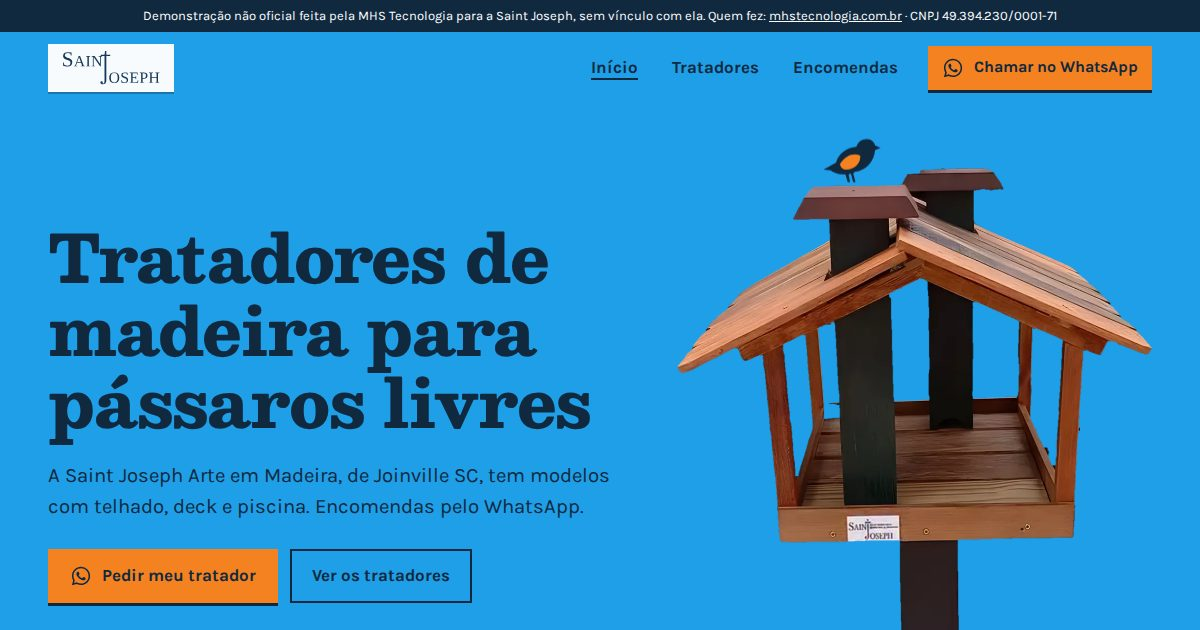
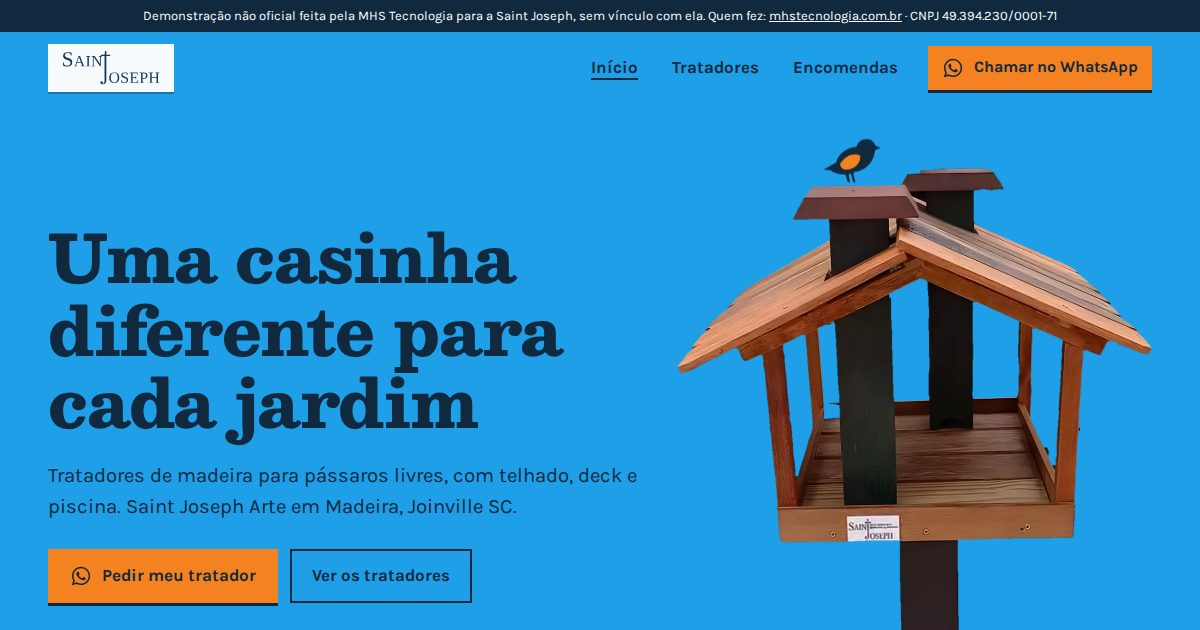
Previews: 56 ativos

Changed region(s): [[0.0308, 0.4825, 0.5242, 0.8143], [0.0308, 0.3619, 0.4625, 0.4524]]

diff --git a/saint-joseph-arte-madeira-joinville-sc/tratadores.html b/saint-joseph-arte-madeira-joinville-sc/tratadores.html
@@ -32,14 +32,14 @@
 </section>
 <section class="miolo">
   <div class="vitrine">
-      <figure class="modelo"><img src="img/t04-800.webp" srcset="img/t04-480.webp 480w, img/t04-800.webp 800w, img/t04-1080.webp 1080w" sizes="(max-width:860px) 46vw, 31vw" width="1080" height="1120" alt="Tratador de madeira com deck de ripas e piscina azul" loading="lazy" decoding="async"><figcaption><h2>Tratador 4 colunas com deck e piscina</h2><p>Com sementes na bandeja e piscina azul no deck.</p><a class="btn btn-pede btn-peq" href="https://wa.me/5547933821675?text=Ol%C3%A1!%20Quero%20saber%20sobre%20este%20modelo%3A%20Tratador%204%20colunas%20com%20deck%20e%20piscina.%20Com%20sementes%20na%20bandeja%20e%20piscina%20azul%20no%20deck."><svg viewBox="0 0 24 24" aria-hidden="true" fill="currentColor"><path d="M12.04 2C6.58 2 2.13 6.45 2.13 11.91c0 1.75.46 3.45 1.32 4.95L2.05 22l5.25-1.38a9.9 9.9 0 0 0 4.74 1.21h.01c5.46 0 9.91-4.45 9.91-9.91 0-2.65-1.03-5.14-2.9-7.01A9.82 9.82 0 0 0 12.04 2Zm0 18.15h-.01a8.2 8.2 0 0 1-4.19-1.15l-.3-.18-3.12.82.83-3.04-.2-.31a8.2 8.2 0 0 1-1.26-4.38c0-4.54 3.7-8.24 8.25-8.24 2.2 0 4.27.86 5.83 2.42a8.18 8.18 0 0 1 2.41 5.83c0 4.54-3.7 8.23-8.24 8.23Zm4.52-6.17c-.25-.12-1.47-.72-1.69-.81-.23-.08-.39-.12-.56.13-.16.24-.64.8-.78.97-.15.16-.29.18-.54.06-.25-.13-1.05-.39-2-1.23-.74-.66-1.24-1.47-1.38-1.72-.15-.25-.02-.38.11-.5.11-.11.25-.29.37-.43.12-.15.16-.25.25-.41.08-.17.04-.31-.02-.43-.06-.13-.56-1.35-.77-1.85-.2-.48-.41-.42-.56-.42h-.48c-.17 0-.43.06-.66.31-.23.25-.86.85-.86 2.07 0 1.22.89 2.4 1.01 2.56.13.17 1.75 2.67 4.23 3.74.59.26 1.05.41 1.41.52.59.19 1.13.16 1.56.1.47-.07 1.47-.6 1.67-1.18.21-.58.21-1.07.15-1.18-.06-.1-.23-.16-.48-.29Z"/></svg>Perguntar</a></figcaption></figure>
-      <figure class="modelo"><img src="img/t06-800.webp" srcset="img/t06-480.webp 480w, img/t06-800.webp 800w, img/t06-920.webp 920w" sizes="(max-width:860px) 46vw, 31vw" width="920" height="904" alt="Tratador de madeira com telhado verde, janela de moldura verde e piscina azul" loading="lazy" decoding="async"><figcaption><h2>Casinha Verde com piscina</h2><p>Telhado verde e moldura verde na janela.</p><a class="btn btn-pede btn-peq" href="https://wa.me/5547933821675?text=Ol%C3%A1!%20Quero%20saber%20sobre%20este%20modelo%3A%20Casinha%20Verde%20com%20piscina.%20Telhado%20verde%20e%20moldura%20verde%20na%20janela."><svg viewBox="0 0 24 24" aria-hidden="true" fill="currentColor"><path d="M12.04 2C6.58 2 2.13 6.45 2.13 11.91c0 1.75.46 3.45 1.32 4.95L2.05 22l5.25-1.38a9.9 9.9 0 0 0 4.74 1.21h.01c5.46 0 9.91-4.45 9.91-9.91 0-2.65-1.03-5.14-2.9-7.01A9.82 9.82 0 0 0 12.04 2Zm0 18.15h-.01a8.2 8.2 0 0 1-4.19-1.15l-.3-.18-3.12.82.83-3.04-.2-.31a8.2 8.2 0 0 1-1.26-4.38c0-4.54 3.7-8.24 8.25-8.24 2.2 0 4.27.86 5.83 2.42a8.18 8.18 0 0 1 2.41 5.83c0 4.54-3.7 8.23-8.24 8.23Zm4.52-6.17c-.25-.12-1.47-.72-1.69-.81-.23-.08-.39-.12-.56.13-.16.24-.64.8-.78.97-.15.16-.29.18-.54.06-.25-.13-1.05-.39-2-1.23-.74-.66-1.24-1.47-1.38-1.72-.15-.25-.02-.38.11-.5.11-.11.25-.29.37-.43.12-.15.16-.25.25-.41.08-.17.04-.31-.02-.43-.06-.13-.56-1.35-.77-1.85-.2-.48-.41-.42-.56-.42h-.48c-.17 0-.43.06-.66.31-.23.25-.86.85-.86 2.07 0 1.22.89 2.4 1.01 2.56.13.17 1.75 2.67 4.23 3.74.59.26 1.05.41 1.41.52.59.19 1.13.16 1.56.1.47-.07 1.47-.6 1.67-1.18.21-.58.21-1.07.15-1.18-.06-.1-.23-.16-.48-.29Z"/></svg>Perguntar</a></figcaption></figure>
-      <figure class="modelo"><img src="img/t08-800.webp" srcset="img/t08-480.webp 480w, img/t08-800.webp 800w, img/t08-1200.webp 1200w, img/t08-1280.webp 1280w" sizes="(max-width:860px) 46vw, 31vw" width="1280" height="2272" alt="Tratador laranja e verde em um poste preto" loading="lazy" decoding="async"><figcaption><h2>Tratador para pássaros</h2><p>Laranja e verde, no poste preto.</p><a class="btn btn-pede btn-peq" href="https://wa.me/5547933821675?text=Ol%C3%A1!%20Quero%20saber%20sobre%20este%20modelo%3A%20Tratador%20para%20p%C3%A1ssaros.%20Laranja%20e%20verde%2C%20no%20poste%20preto."><svg viewBox="0 0 24 24" aria-hidden="true" fill="currentColor"><path d="M12.04 2C6.58 2 2.13 6.45 2.13 11.91c0 1.75.46 3.45 1.32 4.95L2.05 22l5.25-1.38a9.9 9.9 0 0 0 4.74 1.21h.01c5.46 0 9.91-4.45 9.91-9.91 0-2.65-1.03-5.14-2.9-7.01A9.82 9.82 0 0 0 12.04 2Zm0 18.15h-.01a8.2 8.2 0 0 1-4.19-1.15l-.3-.18-3.12.82.83-3.04-.2-.31a8.2 8.2 0 0 1-1.26-4.38c0-4.54 3.7-8.24 8.25-8.24 2.2 0 4.27.86 5.83 2.42a8.18 8.18 0 0 1 2.41 5.83c0 4.54-3.7 8.23-8.24 8.23Zm4.52-6.17c-.25-.12-1.47-.72-1.69-.81-.23-.08-.39-.12-.56.13-.16.24-.64.8-.78.97-.15.16-.29.18-.54.06-.25-.13-1.05-.39-2-1.23-.74-.66-1.24-1.47-1.38-1.72-.15-.25-.02-.38.11-.5.11-.11.25-.29.37-.43.12-.15.16-.25.25-.41.08-.17.04-.31-.02-.43-.06-.13-.56-1.35-.77-1.85-.2-.48-.41-.42-.56-.42h-.48c-.17 0-.43.06-.66.31-.23.25-.86.85-.86 2.07 0 1.22.89 2.4 1.01 2.56.13.17 1.75 2.67 4.23 3.74.59.26 1.05.41 1.41.52.59.19 1.13.16 1.56.1.47-.07 1.47-.6 1.67-1.18.21-.58.21-1.07.15-1.18-.06-.1-.23-.16-.48-.29Z"/></svg>Perguntar</a></figcaption></figure>
-      <figure class="modelo"><img src="img/t03-800.webp" srcset="img/t03-480.webp 480w, img/t03-800.webp 800w, img/t03-1200.webp 1200w, img/t03-1280.webp 1280w" sizes="(max-width:860px) 46vw, 31vw" width="1280" height="904" alt="Tratador de madeira preso em uma parede branca por um suporte de madeira, com piscina azul" loading="lazy" decoding="async"><figcaption><h2>Suporte para tratador de pássaros</h2><p>Preso na parede, com mão-francesa de madeira.</p><a class="btn btn-pede btn-peq" href="https://wa.me/5547933821675?text=Ol%C3%A1!%20Quero%20saber%20sobre%20este%20modelo%3A%20Suporte%20para%20tratador%20de%20p%C3%A1ssaros.%20Preso%20na%20parede%2C%20com%20m%C3%A3o-francesa%20de%20madeira."><svg viewBox="0 0 24 24" aria-hidden="true" fill="currentColor"><path d="M12.04 2C6.58 2 2.13 6.45 2.13 11.91c0 1.75.46 3.45 1.32 4.95L2.05 22l5.25-1.38a9.9 9.9 0 0 0 4.74 1.21h.01c5.46 0 9.91-4.45 9.91-9.91 0-2.65-1.03-5.14-2.9-7.01A9.82 9.82 0 0 0 12.04 2Zm0 18.15h-.01a8.2 8.2 0 0 1-4.19-1.15l-.3-.18-3.12.82.83-3.04-.2-.31a8.2 8.2 0 0 1-1.26-4.38c0-4.54 3.7-8.24 8.25-8.24 2.2 0 4.27.86 5.83 2.42a8.18 8.18 0 0 1 2.41 5.83c0 4.54-3.7 8.23-8.24 8.23Zm4.52-6.17c-.25-.12-1.47-.72-1.69-.81-.23-.08-.39-.12-.56.13-.16.24-.64.8-.78.97-.15.16-.29.18-.54.06-.25-.13-1.05-.39-2-1.23-.74-.66-1.24-1.47-1.38-1.72-.15-.25-.02-.38.11-.5.11-.11.25-.29.37-.43.12-.15.16-.25.25-.41.08-.17.04-.31-.02-.43-.06-.13-.56-1.35-.77-1.85-.2-.48-.41-.42-.56-.42h-.48c-.17 0-.43.06-.66.31-.23.25-.86.85-.86 2.07 0 1.22.89 2.4 1.01 2.56.13.17 1.75 2.67 4.23 3.74.59.26 1.05.41 1.41.52.59.19 1.13.16 1.56.1.47-.07 1.47-.6 1.67-1.18.21-.58.21-1.07.15-1.18-.06-.1-.23-.16-.48-.29Z"/></svg>Perguntar</a></figcaption></figure>
-      <figure class="modelo"><img src="img/t05-800.webp" srcset="img/t05-480.webp 480w, img/t05-800.webp 800w, img/t05-1200.webp 1200w, img/t05-1280.webp 1280w" sizes="(max-width:860px) 46vw, 31vw" width="1280" height="1136" alt="Tratador de madeira com piscina azul sobre um tronco" loading="lazy" decoding="async"><figcaption><h2>Tratador de pássaros com piscina</h2><p>Com up grade, sobre tronco.</p><a class="btn btn-pede btn-peq" href="https://wa.me/5547933821675?text=Ol%C3%A1!%20Quero%20saber%20sobre%20este%20modelo%3A%20Tratador%20de%20p%C3%A1ssaros%20com%20piscina.%20Com%20up%20grade%2C%20sobre%20tronco."><svg viewBox="0 0 24 24" aria-hidden="true" fill="currentColor"><path d="M12.04 2C6.58 2 2.13 6.45 2.13 11.91c0 1.75.46 3.45 1.32 4.95L2.05 22l5.25-1.38a9.9 9.9 0 0 0 4.74 1.21h.01c5.46 0 9.91-4.45 9.91-9.91 0-2.65-1.03-5.14-2.9-7.01A9.82 9.82 0 0 0 12.04 2Zm0 18.15h-.01a8.2 8.2 0 0 1-4.19-1.15l-.3-.18-3.12.82.83-3.04-.2-.31a8.2 8.2 0 0 1-1.26-4.38c0-4.54 3.7-8.24 8.25-8.24 2.2 0 4.27.86 5.83 2.42a8.18 8.18 0 0 1 2.41 5.83c0 4.54-3.7 8.23-8.24 8.23Zm4.52-6.17c-.25-.12-1.47-.72-1.69-.81-.23-.08-.39-.12-.56.13-.16.24-.64.8-.78.97-.15.16-.29.18-.54.06-.25-.13-1.05-.39-2-1.23-.74-.66-1.24-1.47-1.38-1.72-.15-.25-.02-.38.11-.5.11-.11.25-.29.37-.43.12-.15.16-.25.25-.41.08-.17.04-.31-.02-.43-.06-.13-.56-1.35-.77-1.85-.2-.48-.41-.42-.56-.42h-.48c-.17 0-.43.06-.66.31-.23.25-.86.85-.86 2.07 0 1.22.89 2.4 1.01 2.56.13.17 1.75 2.67 4.23 3.74.59.26 1.05.41 1.41.52.59.19 1.13.16 1.56.1.47-.07 1.47-.6 1.67-1.18.21-.58.21-1.07.15-1.18-.06-.1-.23-.16-.48-.29Z"/></svg>Perguntar</a></figcaption></figure>
-      <figure class="modelo"><img src="img/t10-800.webp" srcset="img/t10-480.webp 480w, img/t10-800.webp 800w, img/t10-1200.webp 1200w, img/t10-1280.webp 1280w" sizes="(max-width:860px) 46vw, 31vw" width="1280" height="1808" alt="Tratador de madeira com duas colunas verdes em um poste preto" loading="lazy" decoding="async"><figcaption><h2>Tratador de pássaros</h2><p>Duas colunas verdes no centro.</p><a class="btn btn-pede btn-peq" href="https://wa.me/5547933821675?text=Ol%C3%A1!%20Quero%20saber%20sobre%20este%20modelo%3A%20Tratador%20de%20p%C3%A1ssaros.%20Duas%20colunas%20verdes%20no%20centro."><svg viewBox="0 0 24 24" aria-hidden="true" fill="currentColor"><path d="M12.04 2C6.58 2 2.13 6.45 2.13 11.91c0 1.75.46 3.45 1.32 4.95L2.05 22l5.25-1.38a9.9 9.9 0 0 0 4.74 1.21h.01c5.46 0 9.91-4.45 9.91-9.91 0-2.65-1.03-5.14-2.9-7.01A9.82 9.82 0 0 0 12.04 2Zm0 18.15h-.01a8.2 8.2 0 0 1-4.19-1.15l-.3-.18-3.12.82.83-3.04-.2-.31a8.2 8.2 0 0 1-1.26-4.38c0-4.54 3.7-8.24 8.25-8.24 2.2 0 4.27.86 5.83 2.42a8.18 8.18 0 0 1 2.41 5.83c0 4.54-3.7 8.23-8.24 8.23Zm4.52-6.17c-.25-.12-1.47-.72-1.69-.81-.23-.08-.39-.12-.56.13-.16.24-.64.8-.78.97-.15.16-.29.18-.54.06-.25-.13-1.05-.39-2-1.23-.74-.66-1.24-1.47-1.38-1.72-.15-.25-.02-.38.11-.5.11-.11.25-.29.37-.43.12-.15.16-.25.25-.41.08-.17.04-.31-.02-.43-.06-.13-.56-1.35-.77-1.85-.2-.48-.41-.42-.56-.42h-.48c-.17 0-.43.06-.66.31-.23.25-.86.85-.86 2.07 0 1.22.89 2.4 1.01 2.56.13.17 1.75 2.67 4.23 3.74.59.26 1.05.41 1.41.52.59.19 1.13.16 1.56.1.47-.07 1.47-.6 1.67-1.18.21-.58.21-1.07.15-1.18-.06-.1-.23-.16-.48-.29Z"/></svg>Perguntar</a></figcaption></figure>
-      <figure class="modelo"><img src="img/cena-800.webp" srcset="img/cena-480.webp 480w, img/cena-800.webp 800w, img/cena-1200.webp 1200w, img/cena-1280.webp 1280w" sizes="(max-width:860px) 46vw, 31vw" width="1280" height="1736" alt="Dois tratadores de madeira com piscina azul, lado a lado" loading="lazy" decoding="async"><figcaption><h2>Tratador/<wbr>alimentador com piscina</h2><p>Para pássaros livres.</p><a class="btn btn-pede btn-peq" href="https://wa.me/5547933821675?text=Ol%C3%A1!%20Quero%20saber%20sobre%20este%20modelo%3A%20Tratador%2Falimentador%20com%20piscina.%20Para%20p%C3%A1ssaros%20livres."><svg viewBox="0 0 24 24" aria-hidden="true" fill="currentColor"><path d="M12.04 2C6.58 2 2.13 6.45 2.13 11.91c0 1.75.46 3.45 1.32 4.95L2.05 22l5.25-1.38a9.9 9.9 0 0 0 4.74 1.21h.01c5.46 0 9.91-4.45 9.91-9.91 0-2.65-1.03-5.14-2.9-7.01A9.82 9.82 0 0 0 12.04 2Zm0 18.15h-.01a8.2 8.2 0 0 1-4.19-1.15l-.3-.18-3.12.82.83-3.04-.2-.31a8.2 8.2 0 0 1-1.26-4.38c0-4.54 3.7-8.24 8.25-8.24 2.2 0 4.27.86 5.83 2.42a8.18 8.18 0 0 1 2.41 5.83c0 4.54-3.7 8.23-8.24 8.23Zm4.52-6.17c-.25-.12-1.47-.72-1.69-.81-.23-.08-.39-.12-.56.13-.16.24-.64.8-.78.97-.15.16-.29.18-.54.06-.25-.13-1.05-.39-2-1.23-.74-.66-1.24-1.47-1.38-1.72-.15-.25-.02-.38.11-.5.11-.11.25-.29.37-.43.12-.15.16-.25.25-.41.08-.17.04-.31-.02-.43-.06-.13-.56-1.35-.77-1.85-.2-.48-.41-.42-.56-.42h-.48c-.17 0-.43.06-.66.31-.23.25-.86.85-.86 2.07 0 1.22.89 2.4 1.01 2.56.13.17 1.75 2.67 4.23 3.74.59.26 1.05.41 1.41.52.59.19 1.13.16 1.56.1.47-.07 1.47-.6 1.67-1.18.21-.58.21-1.07.15-1.18-.06-.1-.23-.16-.48-.29Z"/></svg>Perguntar</a></figcaption></figure>
-      <figure class="modelo"><img src="img/t02-800.webp" srcset="img/t02-480.webp 480w, img/t02-800.webp 800w, img/t02-960.webp 960w" sizes="(max-width:860px) 46vw, 31vw" width="960" height="1364" alt="Tratador de madeira clara sobre um tronco, em um jardim com flores brancas" loading="lazy" decoding="async"><figcaption><h2>Tratador para pássaros</h2><p>Sobre tronco, com bandeja de madeira.</p><a class="btn btn-pede btn-peq" href="https://wa.me/5547933821675?text=Ol%C3%A1!%20Quero%20saber%20sobre%20este%20modelo%3A%20Tratador%20para%20p%C3%A1ssaros.%20Sobre%20tronco%2C%20com%20bandeja%20de%20madeira."><svg viewBox="0 0 24 24" aria-hidden="true" fill="currentColor"><path d="M12.04 2C6.58 2 2.13 6.45 2.13 11.91c0 1.75.46 3.45 1.32 4.95L2.05 22l5.25-1.38a9.9 9.9 0 0 0 4.74 1.21h.01c5.46 0 9.91-4.45 9.91-9.91 0-2.65-1.03-5.14-2.9-7.01A9.82 9.82 0 0 0 12.04 2Zm0 18.15h-.01a8.2 8.2 0 0 1-4.19-1.15l-.3-.18-3.12.82.83-3.04-.2-.31a8.2 8.2 0 0 1-1.26-4.38c0-4.54 3.7-8.24 8.25-8.24 2.2 0 4.27.86 5.83 2.42a8.18 8.18 0 0 1 2.41 5.83c0 4.54-3.7 8.23-8.24 8.23Zm4.52-6.17c-.25-.12-1.47-.72-1.69-.81-.23-.08-.39-.12-.56.13-.16.24-.64.8-.78.97-.15.16-.29.18-.54.06-.25-.13-1.05-.39-2-1.23-.74-.66-1.24-1.47-1.38-1.72-.15-.25-.02-.38.11-.5.11-.11.25-.29.37-.43.12-.15.16-.25.25-.41.08-.17.04-.31-.02-.43-.06-.13-.56-1.35-.77-1.85-.2-.48-.41-.42-.56-.42h-.48c-.17 0-.43.06-.66.31-.23.25-.86.85-.86 2.07 0 1.22.89 2.4 1.01 2.56.13.17 1.75 2.67 4.23 3.74.59.26 1.05.41 1.41.52.59.19 1.13.16 1.56.1.47-.07 1.47-.6 1.67-1.18.21-.58.21-1.07.15-1.18-.06-.1-.23-.16-.48-.29Z"/></svg>Perguntar</a></figcaption></figure>
+      <div class="coluna"><figure class="modelo" style="--peso:2.19"><img src="img/t08-800.webp" srcset="img/t08-480.webp 480w, img/t08-800.webp 800w, img/t08-1200.webp 1200w, img/t08-1280.webp 1280w" sizes="(max-width:860px) 46vw, 31vw" width="1280" height="2272" alt="Tratador laranja e verde em um poste preto" loading="lazy" decoding="async"><figcaption><h2>Tratador laranja e verde</h2><p>No poste preto.</p><a class="btn btn-pede btn-peq" href="https://wa.me/5547933821675?text=Ol%C3%A1!%20Quero%20saber%20sobre%20este%20modelo%3A%20Tratador%20laranja%20e%20verde."><svg viewBox="0 0 24 24" aria-hidden="true" fill="currentColor"><path d="M12.04 2C6.58 2 2.13 6.45 2.13 11.91c0 1.75.46 3.45 1.32 4.95L2.05 22l5.25-1.38a9.9 9.9 0 0 0 4.74 1.21h.01c5.46 0 9.91-4.45 9.91-9.91 0-2.65-1.03-5.14-2.9-7.01A9.82 9.82 0 0 0 12.04 2Zm0 18.15h-.01a8.2 8.2 0 0 1-4.19-1.15l-.3-.18-3.12.82.83-3.04-.2-.31a8.2 8.2 0 0 1-1.26-4.38c0-4.54 3.7-8.24 8.25-8.24 2.2 0 4.27.86 5.83 2.42a8.18 8.18 0 0 1 2.41 5.83c0 4.54-3.7 8.23-8.24 8.23Zm4.52-6.17c-.25-.12-1.47-.72-1.69-.81-.23-.08-.39-.12-.56.13-.16.24-.64.8-.78.97-.15.16-.29.18-.54.06-.25-.13-1.05-.39-2-1.23-.74-.66-1.24-1.47-1.38-1.72-.15-.25-.02-.38.11-.5.11-.11.25-.29.37-.43.12-.15.16-.25.25-.41.08-.17.04-.31-.02-.43-.06-.13-.56-1.35-.77-1.85-.2-.48-.41-.42-.56-.42h-.48c-.17 0-.43.06-.66.31-.23.25-.86.85-.86 2.07 0 1.22.89 2.4 1.01 2.56.13.17 1.75 2.67 4.23 3.74.59.26 1.05.41 1.41.52.59.19 1.13.16 1.56.1.47-.07 1.47-.6 1.67-1.18.21-.58.21-1.07.15-1.18-.06-.1-.23-.16-.48-.29Z"/></svg>Perguntar</a></figcaption></figure>
+      <figure class="modelo" style="--peso:1.83"><img src="img/t10-800.webp" srcset="img/t10-480.webp 480w, img/t10-800.webp 800w, img/t10-1200.webp 1200w, img/t10-1280.webp 1280w" sizes="(max-width:860px) 46vw, 31vw" width="1280" height="1808" alt="Tratador de madeira com duas colunas verdes em um poste preto" loading="lazy" decoding="async"><figcaption><h2>Tratador de duas colunas verdes</h2><p>Telhado de madeira, no poste preto.</p><a class="btn btn-pede btn-peq" href="https://wa.me/5547933821675?text=Ol%C3%A1!%20Quero%20saber%20sobre%20este%20modelo%3A%20Tratador%20de%20duas%20colunas%20verdes."><svg viewBox="0 0 24 24" aria-hidden="true" fill="currentColor"><path d="M12.04 2C6.58 2 2.13 6.45 2.13 11.91c0 1.75.46 3.45 1.32 4.95L2.05 22l5.25-1.38a9.9 9.9 0 0 0 4.74 1.21h.01c5.46 0 9.91-4.45 9.91-9.91 0-2.65-1.03-5.14-2.9-7.01A9.82 9.82 0 0 0 12.04 2Zm0 18.15h-.01a8.2 8.2 0 0 1-4.19-1.15l-.3-.18-3.12.82.83-3.04-.2-.31a8.2 8.2 0 0 1-1.26-4.38c0-4.54 3.7-8.24 8.25-8.24 2.2 0 4.27.86 5.83 2.42a8.18 8.18 0 0 1 2.41 5.83c0 4.54-3.7 8.23-8.24 8.23Zm4.52-6.17c-.25-.12-1.47-.72-1.69-.81-.23-.08-.39-.12-.56.13-.16.24-.64.8-.78.97-.15.16-.29.18-.54.06-.25-.13-1.05-.39-2-1.23-.74-.66-1.24-1.47-1.38-1.72-.15-.25-.02-.38.11-.5.11-.11.25-.29.37-.43.12-.15.16-.25.25-.41.08-.17.04-.31-.02-.43-.06-.13-.56-1.35-.77-1.85-.2-.48-.41-.42-.56-.42h-.48c-.17 0-.43.06-.66.31-.23.25-.86.85-.86 2.07 0 1.22.89 2.4 1.01 2.56.13.17 1.75 2.67 4.23 3.74.59.26 1.05.41 1.41.52.59.19 1.13.16 1.56.1.47-.07 1.47-.6 1.67-1.18.21-.58.21-1.07.15-1.18-.06-.1-.23-.16-.48-.29Z"/></svg>Perguntar</a></figcaption></figure></div>
+      <div class="coluna"><figure class="modelo" style="--peso:1.46"><img src="img/t04-800.webp" srcset="img/t04-480.webp 480w, img/t04-800.webp 800w, img/t04-1080.webp 1080w" sizes="(max-width:860px) 46vw, 31vw" width="1080" height="1120" alt="Tratador de madeira com deck de ripas e piscina azul" loading="lazy" decoding="async"><figcaption><h2>Tratador 4 colunas com deck e piscina</h2><p>Com sementes na bandeja.</p><a class="btn btn-pede btn-peq" href="https://wa.me/5547933821675?text=Ol%C3%A1!%20Quero%20saber%20sobre%20este%20modelo%3A%20Tratador%204%20colunas%20com%20deck%20e%20piscina."><svg viewBox="0 0 24 24" aria-hidden="true" fill="currentColor"><path d="M12.04 2C6.58 2 2.13 6.45 2.13 11.91c0 1.75.46 3.45 1.32 4.95L2.05 22l5.25-1.38a9.9 9.9 0 0 0 4.74 1.21h.01c5.46 0 9.91-4.45 9.91-9.91 0-2.65-1.03-5.14-2.9-7.01A9.82 9.82 0 0 0 12.04 2Zm0 18.15h-.01a8.2 8.2 0 0 1-4.19-1.15l-.3-.18-3.12.82.83-3.04-.2-.31a8.2 8.2 0 0 1-1.26-4.38c0-4.54 3.7-8.24 8.25-8.24 2.2 0 4.27.86 5.83 2.42a8.18 8.18 0 0 1 2.41 5.83c0 4.54-3.7 8.23-8.24 8.23Zm4.52-6.17c-.25-.12-1.47-.72-1.69-.81-.23-.08-.39-.12-.56.13-.16.24-.64.8-.78.97-.15.16-.29.18-.54.06-.25-.13-1.05-.39-2-1.23-.74-.66-1.24-1.47-1.38-1.72-.15-.25-.02-.38.11-.5.11-.11.25-.29.37-.43.12-.15.16-.25.25-.41.08-.17.04-.31-.02-.43-.06-.13-.56-1.35-.77-1.85-.2-.48-.41-.42-.56-.42h-.48c-.17 0-.43.06-.66.31-.23.25-.86.85-.86 2.07 0 1.22.89 2.4 1.01 2.56.13.17 1.75 2.67 4.23 3.74.59.26 1.05.41 1.41.52.59.19 1.13.16 1.56.1.47-.07 1.47-.6 1.67-1.18.21-.58.21-1.07.15-1.18-.06-.1-.23-.16-.48-.29Z"/></svg>Perguntar</a></figcaption></figure>
+      <figure class="modelo" style="--peso:1.13"><img src="img/t03-800.webp" srcset="img/t03-480.webp 480w, img/t03-800.webp 800w, img/t03-1200.webp 1200w, img/t03-1280.webp 1280w" sizes="(max-width:860px) 46vw, 31vw" width="1280" height="904" alt="Tratador de madeira preso em uma parede branca por um suporte de madeira, com piscina azul" loading="lazy" decoding="async"><figcaption><h2>Suporte para tratador de pássaros</h2><p>Preso na parede.</p><a class="btn btn-pede btn-peq" href="https://wa.me/5547933821675?text=Ol%C3%A1!%20Quero%20saber%20sobre%20este%20modelo%3A%20Suporte%20para%20tratador%20de%20p%C3%A1ssaros."><svg viewBox="0 0 24 24" aria-hidden="true" fill="currentColor"><path d="M12.04 2C6.58 2 2.13 6.45 2.13 11.91c0 1.75.46 3.45 1.32 4.95L2.05 22l5.25-1.38a9.9 9.9 0 0 0 4.74 1.21h.01c5.46 0 9.91-4.45 9.91-9.91 0-2.65-1.03-5.14-2.9-7.01A9.82 9.82 0 0 0 12.04 2Zm0 18.15h-.01a8.2 8.2 0 0 1-4.19-1.15l-.3-.18-3.12.82.83-3.04-.2-.31a8.2 8.2 0 0 1-1.26-4.38c0-4.54 3.7-8.24 8.25-8.24 2.2 0 4.27.86 5.83 2.42a8.18 8.18 0 0 1 2.41 5.83c0 4.54-3.7 8.23-8.24 8.23Zm4.52-6.17c-.25-.12-1.47-.72-1.69-.81-.23-.08-.39-.12-.56.13-.16.24-.64.8-.78.97-.15.16-.29.18-.54.06-.25-.13-1.05-.39-2-1.23-.74-.66-1.24-1.47-1.38-1.72-.15-.25-.02-.38.11-.5.11-.11.25-.29.37-.43.12-.15.16-.25.25-.41.08-.17.04-.31-.02-.43-.06-.13-.56-1.35-.77-1.85-.2-.48-.41-.42-.56-.42h-.48c-.17 0-.43.06-.66.31-.23.25-.86.85-.86 2.07 0 1.22.89 2.4 1.01 2.56.13.17 1.75 2.67 4.23 3.74.59.26 1.05.41 1.41.52.59.19 1.13.16 1.56.1.47-.07 1.47-.6 1.67-1.18.21-.58.21-1.07.15-1.18-.06-.1-.23-.16-.48-.29Z"/></svg>Perguntar</a></figcaption></figure>
+      <figure class="modelo" style="--peso:1.84"><img src="img/t02-800.webp" srcset="img/t02-480.webp 480w, img/t02-800.webp 800w, img/t02-960.webp 960w" sizes="(max-width:860px) 46vw, 31vw" width="960" height="1364" alt="Tratador de madeira clara sobre um tronco, em um jardim com flores brancas" loading="lazy" decoding="async"><figcaption><h2>Tratador de madeira clara</h2><p>Sobre tronco, em bandeja de madeira.</p><a class="btn btn-pede btn-peq" href="https://wa.me/5547933821675?text=Ol%C3%A1!%20Quero%20saber%20sobre%20este%20modelo%3A%20Tratador%20de%20madeira%20clara."><svg viewBox="0 0 24 24" aria-hidden="true" fill="currentColor"><path d="M12.04 2C6.58 2 2.13 6.45 2.13 11.91c0 1.75.46 3.45 1.32 4.95L2.05 22l5.25-1.38a9.9 9.9 0 0 0 4.74 1.21h.01c5.46 0 9.91-4.45 9.91-9.91 0-2.65-1.03-5.14-2.9-7.01A9.82 9.82 0 0 0 12.04 2Zm0 18.15h-.01a8.2 8.2 0 0 1-4.19-1.15l-.3-.18-3.12.82.83-3.04-.2-.31a8.2 8.2 0 0 1-1.26-4.38c0-4.54 3.7-8.24 8.25-8.24 2.2 0 4.27.86 5.83 2.42a8.18 8.18 0 0 1 2.41 5.83c0 4.54-3.7 8.23-8.24 8.23Zm4.52-6.17c-.25-.12-1.47-.72-1.69-.81-.23-.08-.39-.12-.56.13-.16.24-.64.8-.78.97-.15.16-.29.18-.54.06-.25-.13-1.05-.39-2-1.23-.74-.66-1.24-1.47-1.38-1.72-.15-.25-.02-.38.11-.5.11-.11.25-.29.37-.43.12-.15.16-.25.25-.41.08-.17.04-.31-.02-.43-.06-.13-.56-1.35-.77-1.85-.2-.48-.41-.42-.56-.42h-.48c-.17 0-.43.06-.66.31-.23.25-.86.85-.86 2.07 0 1.22.89 2.4 1.01 2.56.13.17 1.75 2.67 4.23 3.74.59.26 1.05.41 1.41.52.59.19 1.13.16 1.56.1.47-.07 1.47-.6 1.67-1.18.21-.58.21-1.07.15-1.18-.06-.1-.23-.16-.48-.29Z"/></svg>Perguntar</a></figcaption></figure></div>
+      <div class="coluna"><figure class="modelo" style="--peso:1.40"><img src="img/t06-800.webp" srcset="img/t06-480.webp 480w, img/t06-800.webp 800w, img/t06-920.webp 920w" sizes="(max-width:860px) 46vw, 31vw" width="920" height="904" alt="Tratador de madeira com telhado verde, janela de moldura verde e piscina azul" loading="lazy" decoding="async"><figcaption><h2>Casinha Verde com piscina</h2><p>Telhado e janela em verde.</p><a class="btn btn-pede btn-peq" href="https://wa.me/5547933821675?text=Ol%C3%A1!%20Quero%20saber%20sobre%20este%20modelo%3A%20Casinha%20Verde%20com%20piscina."><svg viewBox="0 0 24 24" aria-hidden="true" fill="currentColor"><path d="M12.04 2C6.58 2 2.13 6.45 2.13 11.91c0 1.75.46 3.45 1.32 4.95L2.05 22l5.25-1.38a9.9 9.9 0 0 0 4.74 1.21h.01c5.46 0 9.91-4.45 9.91-9.91 0-2.65-1.03-5.14-2.9-7.01A9.82 9.82 0 0 0 12.04 2Zm0 18.15h-.01a8.2 8.2 0 0 1-4.19-1.15l-.3-.18-3.12.82.83-3.04-.2-.31a8.2 8.2 0 0 1-1.26-4.38c0-4.54 3.7-8.24 8.25-8.24 2.2 0 4.27.86 5.83 2.42a8.18 8.18 0 0 1 2.41 5.83c0 4.54-3.7 8.23-8.24 8.23Zm4.52-6.17c-.25-.12-1.47-.72-1.69-.81-.23-.08-.39-.12-.56.13-.16.24-.64.8-.78.97-.15.16-.29.18-.54.06-.25-.13-1.05-.39-2-1.23-.74-.66-1.24-1.47-1.38-1.72-.15-.25-.02-.38.11-.5.11-.11.25-.29.37-.43.12-.15.16-.25.25-.41.08-.17.04-.31-.02-.43-.06-.13-.56-1.35-.77-1.85-.2-.48-.41-.42-.56-.42h-.48c-.17 0-.43.06-.66.31-.23.25-.86.85-.86 2.07 0 1.22.89 2.4 1.01 2.56.13.17 1.75 2.67 4.23 3.74.59.26 1.05.41 1.41.52.59.19 1.13.16 1.56.1.47-.07 1.47-.6 1.67-1.18.21-.58.21-1.07.15-1.18-.06-.1-.23-.16-.48-.29Z"/></svg>Perguntar</a></figcaption></figure>
+      <figure class="modelo" style="--peso:1.78"><img src="img/cena-800.webp" srcset="img/cena-480.webp 480w, img/cena-800.webp 800w, img/cena-1200.webp 1200w, img/cena-1280.webp 1280w" sizes="(max-width:860px) 46vw, 31vw" width="1280" height="1736" alt="Dois tratadores de madeira com piscina azul, lado a lado" loading="lazy" decoding="async"><figcaption><h2>Tratador/<wbr>alimentador com piscina</h2><p>Para pássaros livres.</p><a class="btn btn-pede btn-peq" href="https://wa.me/5547933821675?text=Ol%C3%A1!%20Quero%20saber%20sobre%20este%20modelo%3A%20Tratador%2Falimentador%20com%20piscina."><svg viewBox="0 0 24 24" aria-hidden="true" fill="currentColor"><path d="M12.04 2C6.58 2 2.13 6.45 2.13 11.91c0 1.75.46 3.45 1.32 4.95L2.05 22l5.25-1.38a9.9 9.9 0 0 0 4.74 1.21h.01c5.46 0 9.91-4.45 9.91-9.91 0-2.65-1.03-5.14-2.9-7.01A9.82 9.82 0 0 0 12.04 2Zm0 18.15h-.01a8.2 8.2 0 0 1-4.19-1.15l-.3-.18-3.12.82.83-3.04-.2-.31a8.2 8.2 0 0 1-1.26-4.38c0-4.54 3.7-8.24 8.25-8.24 2.2 0 4.27.86 5.83 2.42a8.18 8.18 0 0 1 2.41 5.83c0 4.54-3.7 8.23-8.24 8.23Zm4.52-6.17c-.25-.12-1.47-.72-1.69-.81-.23-.08-.39-.12-.56.13-.16.24-.64.8-.78.97-.15.16-.29.18-.54.06-.25-.13-1.05-.39-2-1.23-.74-.66-1.24-1.47-1.38-1.72-.15-.25-.02-.38.11-.5.11-.11.25-.29.37-.43.12-.15.16-.25.25-.41.08-.17.04-.31-.02-.43-.06-.13-.56-1.35-.77-1.85-.2-.48-.41-.42-.56-.42h-.48c-.17 0-.43.06-.66.31-.23.25-.86.85-.86 2.07 0 1.22.89 2.4 1.01 2.56.13.17 1.75 2.67 4.23 3.74.59.26 1.05.41 1.41.52.59.19 1.13.16 1.56.1.47-.07 1.47-.6 1.67-1.18.21-.58.21-1.07.15-1.18-.06-.1-.23-.16-.48-.29Z"/></svg>Perguntar</a></figcaption></figure>
+      <figure class="modelo" style="--peso:1.31"><img src="img/t05-800.webp" srcset="img/t05-480.webp 480w, img/t05-800.webp 800w, img/t05-1200.webp 1200w, img/t05-1280.webp 1280w" sizes="(max-width:860px) 46vw, 31vw" width="1280" height="1136" alt="Tratador de madeira com piscina azul sobre um tronco" loading="lazy" decoding="async"><figcaption><h2>Tratador com piscina sobre tronco</h2><p>Deck de ripas na frente.</p><a class="btn btn-pede btn-peq" href="https://wa.me/5547933821675?text=Ol%C3%A1!%20Quero%20saber%20sobre%20este%20modelo%3A%20Tratador%20com%20piscina%20sobre%20tronco."><svg viewBox="0 0 24 24" aria-hidden="true" fill="currentColor"><path d="M12.04 2C6.58 2 2.13 6.45 2.13 11.91c0 1.75.46 3.45 1.32 4.95L2.05 22l5.25-1.38a9.9 9.9 0 0 0 4.74 1.21h.01c5.46 0 9.91-4.45 9.91-9.91 0-2.65-1.03-5.14-2.9-7.01A9.82 9.82 0 0 0 12.04 2Zm0 18.15h-.01a8.2 8.2 0 0 1-4.19-1.15l-.3-.18-3.12.82.83-3.04-.2-.31a8.2 8.2 0 0 1-1.26-4.38c0-4.54 3.7-8.24 8.25-8.24 2.2 0 4.27.86 5.83 2.42a8.18 8.18 0 0 1 2.41 5.83c0 4.54-3.7 8.23-8.24 8.23Zm4.52-6.17c-.25-.12-1.47-.72-1.69-.81-.23-.08-.39-.12-.56.13-.16.24-.64.8-.78.97-.15.16-.29.18-.54.06-.25-.13-1.05-.39-2-1.23-.74-.66-1.24-1.47-1.38-1.72-.15-.25-.02-.38.11-.5.11-.11.25-.29.37-.43.12-.15.16-.25.25-.41.08-.17.04-.31-.02-.43-.06-.13-.56-1.35-.77-1.85-.2-.48-.41-.42-.56-.42h-.48c-.17 0-.43.06-.66.31-.23.25-.86.85-.86 2.07 0 1.22.89 2.4 1.01 2.56.13.17 1.75 2.67 4.23 3.74.59.26 1.05.41 1.41.52.59.19 1.13.16 1.56.1.47-.07 1.47-.6 1.67-1.18.21-.58.21-1.07.15-1.18-.06-.1-.23-.16-.48-.29Z"/></svg>Perguntar</a></figcaption></figure></div>
   </div>
 </section>
 <div style="height:clamp(40px,6vw,80px)"></div>

diff --git a/saint-joseph-arte-madeira-joinville-sc/index.html b/saint-joseph-arte-madeira-joinville-sc/index.html
@@ -35,8 +35,8 @@
 <section class="heroi sobre-azul">
   <div class="miolo">
     <div class="heroi-texto">
-      <h1>Tratadores de madeira para pássaros livres</h1>
-      <p class="lead">A Saint Joseph Arte em Madeira, de Joinville SC, tem modelos com telhado, deck e piscina. Encomendas pelo WhatsApp.</p>
+      <h1>Uma casinha diferente para cada jardim</h1>
+      <p class="lead">Tratadores de madeira para pássaros livres, com telhado, deck e piscina. Saint Joseph Arte em Madeira, Joinville SC.</p>
       <div class="acoes">
         <a class="btn btn-pede" data-cta href="https://wa.me/5547933821675?text=Ol%C3%A1!%20Quero%20saber%20sobre%20os%20tratadores%20de%20p%C3%A1ssaros."><svg viewBox="0 0 24 24" aria-hidden="true" fill="currentColor"><path d="M12.04 2C6.58 2 2.13 6.45 2.13 11.91c0 1.75.46 3.45 1.32 4.95L2.05 22l5.25-1.38a9.9 9.9 0 0 0 4.74 1.21h.01c5.46 0 9.91-4.45 9.91-9.91 0-2.65-1.03-5.14-2.9-7.01A9.82 9.82 0 0 0 12.04 2Zm0 18.15h-.01a8.2 8.2 0 0 1-4.19-1.15l-.3-.18-3.12.82.83-3.04-.2-.31a8.2 8.2 0 0 1-1.26-4.38c0-4.54 3.7-8.24 8.25-8.24 2.2 0 4.27.86 5.83 2.42a8.18 8.18 0 0 1 2.41 5.83c0 4.54-3.7 8.23-8.24 8.23Zm4.52-6.17c-.25-.12-1.47-.72-1.69-.81-.23-.08-.39-.12-.56.13-.16.24-.64.8-.78.97-.15.16-.29.18-.54.06-.25-.13-1.05-.39-2-1.23-.74-.66-1.24-1.47-1.38-1.72-.15-.25-.02-.38.11-.5.11-.11.25-.29.37-.43.12-.15.16-.25.25-.41.08-.17.04-.31-.02-.43-.06-.13-.56-1.35-.77-1.85-.2-.48-.41-.42-.56-.42h-.48c-.17 0-.43.06-.66.31-.23.25-.86.85-.86 2.07 0 1.22.89 2.4 1.01 2.56.13.17 1.75 2.67 4.23 3.74.59.26 1.05.41 1.41.52.59.19 1.13.16 1.56.1.47-.07 1.47-.6 1.67-1.18.21-.58.21-1.07.15-1.18-.06-.1-.23-.16-.48-.29Z"/></svg>Pedir meu tratador</a>
         <a class="btn btn-linha" href="tratadores.html">Ver os tratadores</a>
@@ -52,16 +52,20 @@
 
 <section class="secao">
   <div class="miolo">
-    <div class="secao-cab">
-      <h2>Uma casinha diferente para cada jardim</h2>
-      <p class="lead">No tom da madeira ou colorida, no poste ou sobre o tronco.</p>
-    </div>
     <div class="casinhas">
-      <figure class="casinha"><img src="img/cena-800.webp" srcset="img/cena-480.webp 480w, img/cena-800.webp 800w, img/cena-1200.webp 1200w, img/cena-1280.webp 1280w" sizes="(max-width:860px) calc(100vw - 32px), 31vw" width="1280" height="1736" alt="Dois tratadores de madeira com piscina azul, lado a lado, em frente a uma treliça com flores" loading="lazy" decoding="async"><figcaption class="plaquinha">Tratador/alimentador com piscina</figcaption></figure>
-      <figure class="casinha"><img src="img/t05-800.webp" srcset="img/t05-480.webp 480w, img/t05-800.webp 800w, img/t05-1200.webp 1200w, img/t05-1280.webp 1280w" sizes="(max-width:860px) 46vw, 31vw" width="1280" height="1136" alt="Tratador de madeira com piscina azul sobre um tronco, em um jardim" loading="lazy" decoding="async"><figcaption class="plaquinha">Tratador com piscina</figcaption></figure>
-      <figure class="casinha"><img src="img/t08-800.webp" srcset="img/t08-480.webp 480w, img/t08-800.webp 800w, img/t08-1200.webp 1200w, img/t08-1280.webp 1280w" sizes="(max-width:860px) 46vw, 31vw" width="1280" height="2272" alt="Tratador laranja e verde em um poste preto, ao lado de um canteiro" loading="lazy" decoding="async"><figcaption class="plaquinha">Laranja e verde</figcaption></figure>
+      <div class="casinhas-a">
+        <h2>Tratadores para pássaros livres</h2>
+        <figure class="casinha"><img src="img/cena-800.webp" srcset="img/cena-480.webp 480w, img/cena-800.webp 800w, img/cena-1200.webp 1200w, img/cena-1280.webp 1280w" sizes="(max-width:860px) calc(100vw - 32px), 31vw" width="1280" height="1736" alt="Dois tratadores de madeira com piscina azul, lado a lado, em frente a uma treliça com flores" loading="lazy" decoding="async"><figcaption class="plaquinha">Tratador/alimentador com piscina</figcaption></figure>
+      </div>
+      <div class="casinhas-b">
+        <figure class="casinha"><img src="img/t05-800.webp" srcset="img/t05-480.webp 480w, img/t05-800.webp 800w, img/t05-1200.webp 1200w, img/t05-1280.webp 1280w" sizes="(max-width:860px) 46vw, 31vw" width="1280" height="1136" alt="Tratador de madeira com piscina azul sobre um tronco, em um jardim" loading="lazy" decoding="async"><figcaption class="plaquinha">Tratador com piscina</figcaption></figure>
+        <div class="mais">
+          <p>No tom da madeira ou colorida, no poste ou sobre o tronco.</p>
+          <a class="btn btn-linha" href="tratadores.html">Ver todos os tratadores</a>
+        </div>
+      </div>
+      <figure class="casinha casinhas-c"><img src="img/t08-800.webp" srcset="img/t08-480.webp 480w, img/t08-800.webp 800w, img/t08-1200.webp 1200w, img/t08-1280.webp 1280w" sizes="(max-width:860px) 46vw, 31vw" width="1280" height="2272" alt="Tratador laranja e verde em um poste preto, ao lado de um canteiro" loading="lazy" decoding="async"><figcaption class="plaquinha">Laranja e verde</figcaption></figure>
     </div>
-    <p class="mais"><a class="btn btn-linha" href="tratadores.html">Ver todos os tratadores</a></p>
   </div>
 </section>
 

diff --git a/saint-joseph-arte-madeira-joinville-sc/estilo.css b/saint-joseph-arte-madeira-joinville-sc/estilo.css
@@ -92,12 +92,16 @@ h2{font-size:clamp(2rem,4vw,3.4rem)}
 .secao{padding-block:clamp(56px,8vw,112px)}
 .secao-cab{max-width:760px}
 .secao-cab p{margin-top:14px;max-width:36em}
-.casinhas{display:grid;grid-template-columns:repeat(3,minmax(0,1fr));gap:clamp(14px,2.4vw,32px);margin-top:44px;align-items:start}
+.casinhas{display:grid;grid-template-columns:repeat(3,minmax(0,1fr));gap:clamp(14px,2.4vw,32px)}
 .casinha{position:relative}
-.casinha:nth-child(2){margin-top:64px}
 .casinha img{width:100%;clip-path:polygon(50% 0,100% 13%,100% 100%,0 100%,0 13%)}
 .casinha .plaquinha{position:absolute;left:12px;bottom:12px;max-width:calc(100% - 24px)}
-.mais{margin-top:36px}
+.casinhas-a{display:flex;flex-direction:column;justify-content:space-between;gap:24px}
+.casinhas-a h2{font-size:clamp(2rem,3vw,2.6rem)}
+.casinhas-b{display:flex;flex-direction:column;justify-content:space-between;gap:24px;padding-top:min(10.4vw,150px)}
+.casinhas-c img{height:100%;object-fit:cover}
+.mais p{font-size:clamp(1.125rem,1.7vw,1.3rem);margin-bottom:16px}
+.mais .btn{width:100%}
 
 /* de perto */
 .perto{background:var(--funda);color:#fff}
@@ -138,15 +142,24 @@ h2{font-size:clamp(2rem,4vw,3.4rem)}
 .faixa{background:var(--piscina);padding-block:clamp(32px,5vw,64px) clamp(92px,11vw,150px)}
 .faixa .lead{margin-top:16px}
 .faixa-curta{padding-bottom:clamp(40px,6vw,72px)}
-.vitrine{columns:3;column-gap:clamp(14px,2.4vw,32px);margin-top:clamp(-120px,-8vw,-60px);position:relative}
+.vitrine{columns:2;column-gap:clamp(14px,2.4vw,32px);margin-top:clamp(-120px,-8vw,-60px);position:relative}
+.coluna{display:contents}
 .modelo{break-inside:avoid;margin-bottom:clamp(14px,2.4vw,32px);background:var(--placa);box-shadow:0 2px 0 rgb(16 41 63 / .18)}
 .modelo img{width:100%}
+@media (min-width:1100px){
+  /* altura fixa pela largura: a foto de cada cartão ocupa o que sobra, e as colunas terminam juntas */
+  .vitrine{columns:auto;display:grid;grid-template-columns:repeat(3,minmax(0,1fr));gap:32px;aspect-ratio:1184/1540}
+  .coluna{display:flex;flex-direction:column;gap:32px;min-height:0}
+  .modelo{display:flex;flex-direction:column;flex:var(--peso) 1 0;min-height:0;margin:0}
+  .modelo img{flex:1 1 0;min-height:0;height:0;object-fit:cover}
+}
 .modelo figcaption{padding:14px 16px 16px}
 .modelo h2{font-size:1.2rem;line-height:1.2;letter-spacing:-.005em;font-weight:700}
 .modelo p{margin-top:4px;font-size:1rem}
 .modelo .btn{margin-top:12px;width:100%}
 
-.enc{display:grid;grid-template-columns:minmax(0,1fr) minmax(0,1fr);gap:clamp(28px,5vw,72px);align-items:start}
+.enc{display:grid;grid-template-columns:minmax(0,1fr) 400px;gap:clamp(28px,5vw,72px);align-items:start}
+.enc-tronco img{aspect-ratio:4/5;object-fit:cover;object-position:50% 44%}
 .enc-fotos{display:grid;gap:14px}
 .enc-fotos figure{position:relative}
 .enc-fotos img{width:100%}
@@ -154,7 +167,6 @@ h2{font-size:clamp(2rem,4vw,3.4rem)}
 .enc-faixa{display:grid;grid-template-columns:minmax(0,1.2fr) minmax(0,1fr);gap:32px;align-items:end}
 .numero{font-family:var(--serif);font-weight:800;font-size:clamp(1.6rem,3.4vw,2.6rem);line-height:1.1;text-decoration:none;display:inline-flex;align-items:center;min-height:48px}
 .enc h2{margin-bottom:12px}
-.enc-deck{margin-top:44px}
 .enc-faixa h1{font-size:clamp(2.5rem,5vw,4.4rem)}
 .enc .poste{margin-top:40px}
 
@@ -181,12 +193,13 @@ h2{font-size:clamp(2rem,4vw,3.4rem)}
   .heroi .btn-linha{display:none}
   .heroi-peca{width:min(82vw,420px);margin-top:46px;margin-bottom:-90px}
   .heroi-peca .plaquinha{right:-4px;bottom:125px;font-size:.875rem}
-  .casinhas{grid-template-columns:repeat(2,minmax(0,1fr));margin-top:32px}
-  .casinha:first-child{grid-column:1/-1}
-  .casinha:nth-child(2){margin-top:0}
+  .casinhas{grid-template-columns:repeat(2,minmax(0,1fr))}
+  .casinhas-a{grid-column:1/-1}
+  .casinhas-b{padding-top:0;gap:14px}
+  .mais p{font-size:1rem;margin-bottom:10px}
+  .mais .btn{padding-inline:10px;font-size:1rem}
   .perto .miolo,.placas-sec .miolo,.enc,.enc-faixa,.fundo .miolo{grid-template-columns:1fr}
   .fundo-lado{margin-top:34px}
-  .vitrine{columns:2}
   .modelo figcaption{padding:10px 10px 12px}
   .modelo h2{font-size:1.0625rem}
   .modelo p{font-size:.9375rem}

diff --git a/saint-joseph-arte-madeira-joinville-sc/encomendas.html b/saint-joseph-arte-madeira-joinville-sc/encomendas.html
@@ -42,12 +42,10 @@
       <h2>Sobre o que você quer falar?</h2>
       <p class="lead">Toque em uma placa e a mensagem já vai pronta.</p>
       <ul class="poste"><li><a class="seta" href="https://wa.me/5547933821675?text=Ol%C3%A1!%20Quero%20saber%20sobre%20os%20tratadores%20de%20p%C3%A1ssaros.">Tratador de pássaros</a></li><li><a class="seta" href="https://wa.me/5547933821675?text=Ol%C3%A1!%20Queria%20saber%20sobre%20o%20suporte%20para%20tratador%20de%20p%C3%A1ssaros.">Suporte para tratador</a></li><li><a class="seta" href="https://wa.me/5547933821675?text=Ol%C3%A1!%20Queria%20saber%20sobre%20caixa%20de%20correio%20de%20madeira.">Caixa de correio</a></li><li><a class="seta" href="https://wa.me/5547933821675?text=Ol%C3%A1!%20Queria%20saber%20sobre%20casa%20de%20cachorro.">Casa de cachorro</a></li><li><a class="seta" href="https://wa.me/5547933821675?text=Ol%C3%A1!%20Queria%20saber%20sobre%20gatil.">Gatil</a></li><li><a class="seta" href="https://wa.me/5547933821675?text=Ol%C3%A1!%20Queria%20saber%20sobre%20cachepot.">Cachepot</a></li><li><a class="seta" href="https://wa.me/5547933821675?text=Ol%C3%A1!%20Queria%20saber%20sobre%20os%20artigos%20para%20vinhos.">Artigos para vinhos</a></li></ul>
-      <div class="enc-fotos enc-deck">
-      <figure><img src="img/deck07-800.webp" srcset="img/deck07-480.webp 480w, img/deck07-800.webp 800w, img/deck07-1140.webp 1140w" sizes="(max-width:860px) calc(100vw - 32px), 44vw" width="1140" height="600" alt="Detalhe de um deck de ripas com piscina azul e plaquinha Saint Joseph" loading="lazy" decoding="async"><figcaption class="plaquinha">Deck com piscina</figcaption></figure>
-      </div>
     </div>
     <div class="enc-fotos">
-      <figure><img src="img/t09-800.webp" srcset="img/t09-480.webp 480w, img/t09-800.webp 800w, img/t09-1200.webp 1200w, img/t09-1280.webp 1280w" sizes="(max-width:860px) calc(100vw - 32px), 44vw" width="1280" height="2272" alt="Tratador de madeira sobre um tronco largo, com plaquinha Saint Joseph na bandeja" loading="lazy" decoding="async"><figcaption class="plaquinha">Tratador para pássaros</figcaption></figure>
+      <figure class="enc-tronco"><img src="img/t09-800.webp" srcset="img/t09-480.webp 480w, img/t09-800.webp 800w, img/t09-1200.webp 1200w, img/t09-1280.webp 1280w" sizes="(max-width:860px) calc(100vw - 32px), 400px" width="1280" height="2272" alt="Tratador de madeira sobre um tronco largo, com plaquinha Saint Joseph na bandeja" loading="lazy" decoding="async"><figcaption class="plaquinha">Tratador sobre tronco largo</figcaption></figure>
+      <figure><img src="img/deck07-800.webp" srcset="img/deck07-480.webp 480w, img/deck07-800.webp 800w, img/deck07-1140.webp 1140w" sizes="(max-width:860px) calc(100vw - 32px), 400px" width="1140" height="600" alt="Detalhe de um deck de ripas com piscina azul e plaquinha Saint Joseph" loading="lazy" decoding="async"><figcaption class="plaquinha">Deck com piscina</figcaption></figure>
     </div>
   </div>
 </section>
